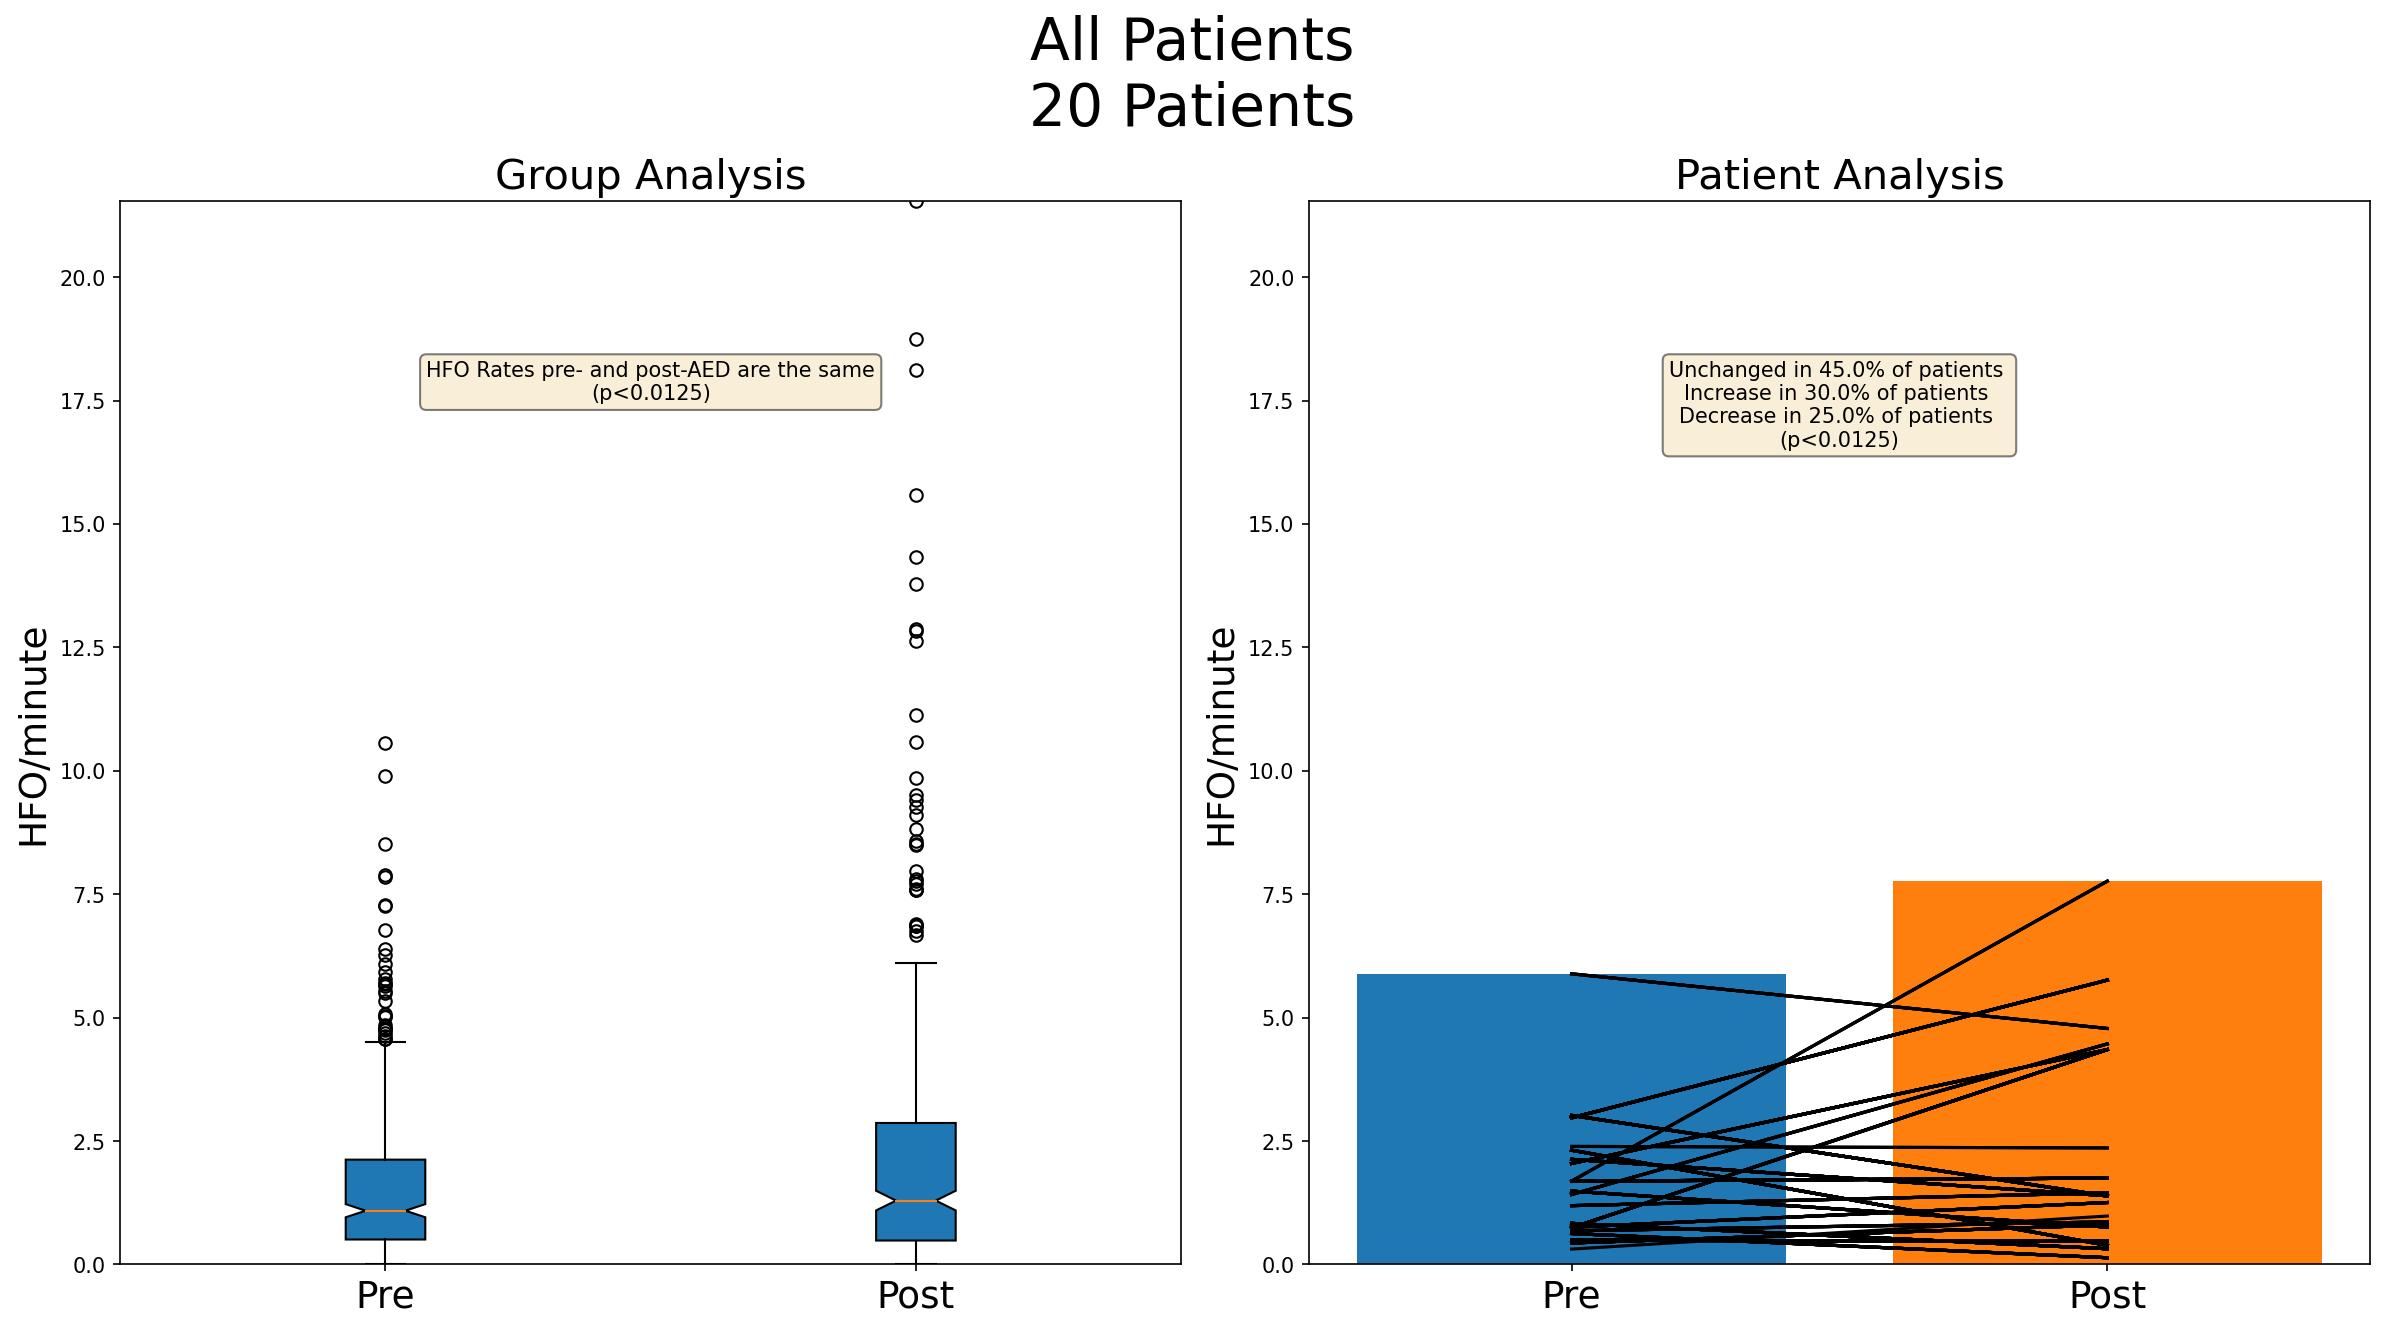
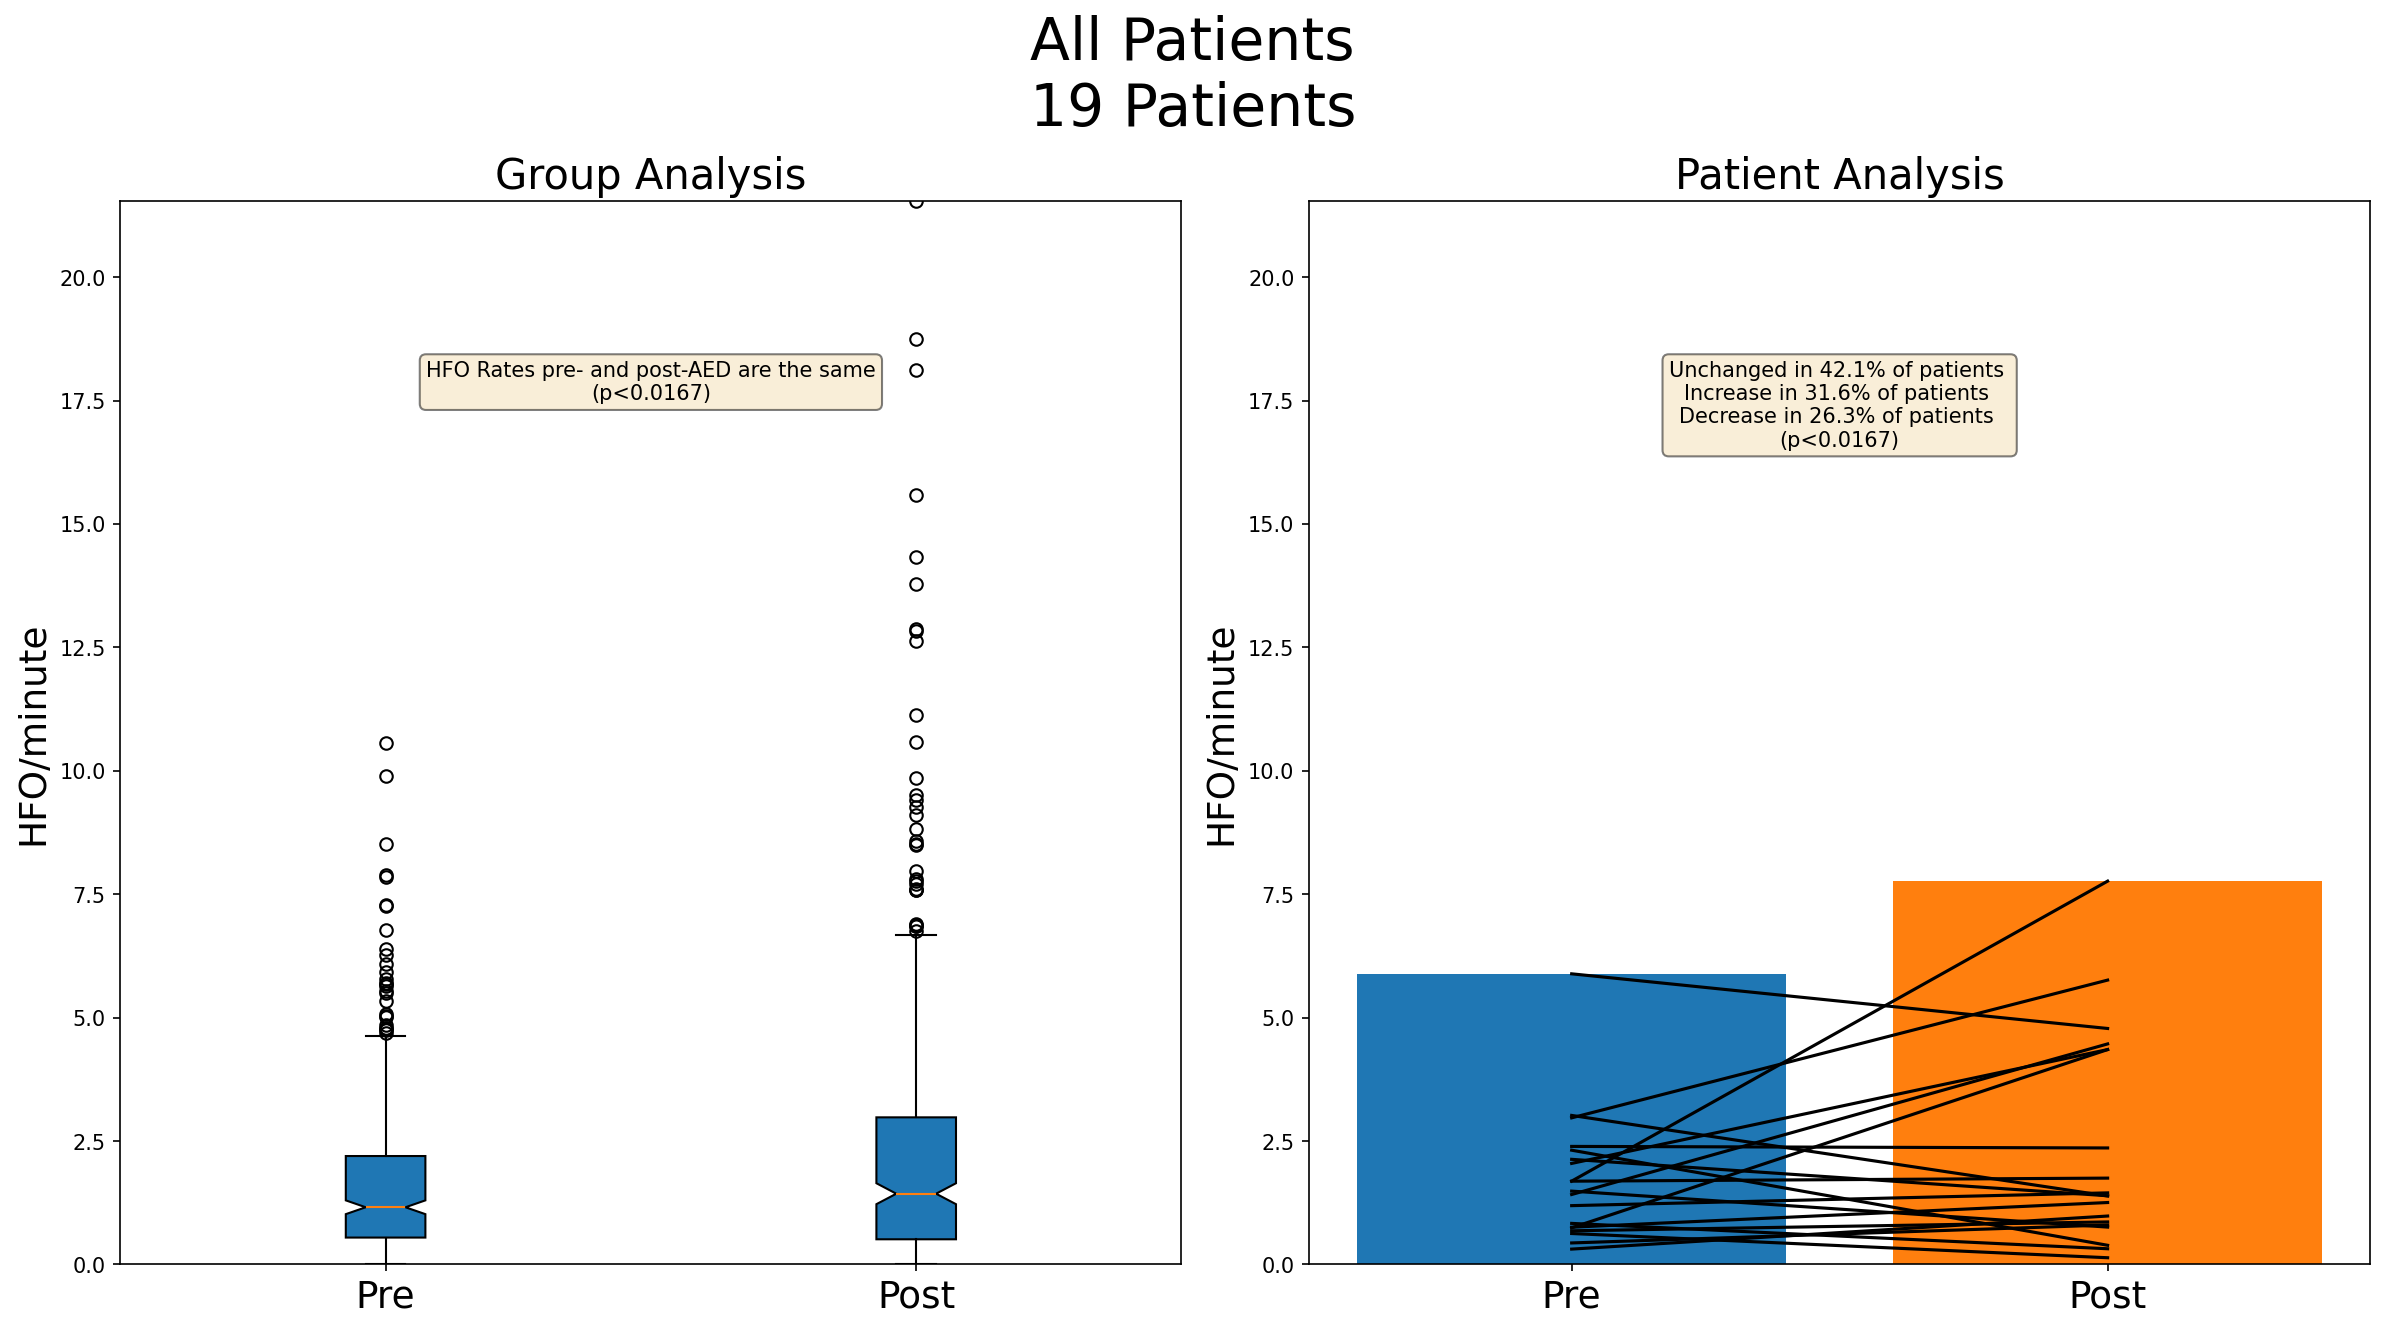
commit before changing the file read procedure to be based on a lookup table

diff --git a/src/plotters.py b/src/plotters.py
@@ -5,6 +5,7 @@ import matplotlib.pyplot as plt
 
 from get_paths import *
 from data_extraction import *
+from file_groups import *
 
 
 def plot_analysis_results(group_label, all_rates_pre, all_rates_post, trim_ok):
@@ -63,23 +64,40 @@ def plot_analysis_barchart(ax, all_rates_pre, all_rates_post, trim_ok):
         pats_avg_pre.append(np.mean(pre_data))
         pats_avg_post.append(np.mean(post_data))
 
-        stats, p_same = scipy.stats.ranksums(
-            pre_data, post_data, alternative='two-sided')
-        stats, p_decrease = scipy.stats.ranksums(
-            pre_data, post_data, alternative='greater')
-        stats, p_increase = scipy.stats.ranksums(
-            pre_data, post_data, alternative='less')
-
-        if p_same >= 0.0125:
-            nr_pats_same += 1
+        use_paired_test = False
+        if use_paired_test:
+            # zero_method{“wilcox”, “pratt”, “zsplit”
+            zero_method_str = 'wilcox'
+            stats, p_same = scipy.stats.wilcoxon(
+                pre_data, post_data, zero_method=zero_method_str, alternative='two-sided')
+            stats, p_decrease = scipy.stats.wilcoxon(
+                pre_data, post_data, zero_method=zero_method_str, alternative='greater')
+            stats, p_increase = scipy.stats.wilcoxon(
+                pre_data, post_data, zero_method=zero_method_str, alternative='less')
         else:
-            if p_decrease < 0.0125:
-                nr_pats_decreased += 1
-            elif p_increase < 0.0125:
-                nr_pats_increased += 1
+            stats, p_same = scipy.stats.mannwhitneyu(
+                pre_data, post_data, alternative='two-sided')
+            stats, p_decrease = scipy.stats.mannwhitneyu(
+                pre_data, post_data, alternative='greater')
+            stats, p_increase = scipy.stats.mannwhitneyu(
+                pre_data, post_data, alternative='less')
 
-        for idx in range(len(pats_avg_pre)):
-            ax.plot([1, 2], [pats_avg_pre[idx], pats_avg_post[idx]], '-k')
+        alpha_val = 0.0167  # 0.0125
+        no_change_s = p_same > alpha_val
+        decrease_s = not (
+            no_change_s) and p_decrease <= alpha_val and p_decrease < p_same and p_decrease < p_increase
+        increase_s = not (
+            no_change_s) and p_increase <= alpha_val and p_increase < p_same and p_increase < p_decrease
+
+        if no_change_s+decrease_s+increase_s > 1:
+            stop = 1
+
+        nr_pats_same += no_change_s
+        nr_pats_decreased += decrease_s
+        nr_pats_increased += increase_s
+
+    for idx in range(len(pats_avg_pre)):
+        ax.plot([1, 2], [pats_avg_pre[idx], pats_avg_post[idx]], '-k')
 
     ax.bar(np.zeros(len(pats_avg_pre))+1, pats_avg_pre)
     ax.bar(np.zeros(len(pats_avg_post))+2, pats_avg_post)
@@ -95,13 +113,11 @@ def plot_analysis_barchart(ax, all_rates_pre, all_rates_post, trim_ok):
     textstr = f"Unchanged in {nr_pats_same:.1f}% of patients \n"
     textstr += f"Increase in {nr_pats_increased:.1f}% of patients \n"
     textstr += f"Decrease in {nr_pats_decreased:.1f}% of patients \n"
-    textstr += "(p<0.0125)"
+    textstr += f"(p<{alpha_val})"
 
     props = dict(boxstyle='round', facecolor='wheat', alpha=0.5)
     ax.text(0.50, 0.85, textstr, transform=ax.transAxes, fontsize=10,
             horizontalalignment='center', verticalalignment='top', multialignment='center',  bbox=props)
-
-    stop = 1
 
 
 def plot_analysis_boxplot(ax, all_rates_pre, all_rates_post, trim_ok):
@@ -131,7 +147,7 @@ def plot_analysis_boxplot(ax, all_rates_pre, all_rates_post, trim_ok):
     ax.set_ylabel("HFO/minute", fontsize=18)
     ax.set_ylim(np.min(all_rates), np.max(all_rates))
 
-    # Perform statisitical tests
+    # Perform statisitical tests, ranksums, mannwhitneyu
     stats, p_same = scipy.stats.ranksums(
         all_rates_pre[1, :], all_rates_post[1, :], alternative='two-sided')  # 'two-sided', 'less', 'greater'
 
@@ -141,16 +157,26 @@ def plot_analysis_boxplot(ax, all_rates_pre, all_rates_post, trim_ok):
     stats, p_increase = scipy.stats.ranksums(
         all_rates_pre[1, :], all_rates_post[1, :], alternative='less')  # 'two-sided', 'less', 'greater'
 
+    alpha_val = 0.0167  # 0.0125
+    no_change_s = p_same > alpha_val
+    decrease_s = not (
+        no_change_s) and p_decrease <= alpha_val and p_decrease < p_same and p_decrease < p_increase
+    increase_s = not (
+        no_change_s) and p_increase <= alpha_val and p_increase < p_same and p_increase < p_decrease
+
     textstr = "HFO Rates pre- and post-AED are the same\n"
-    if p_same >= 0.0125:
+    if no_change_s:
         textstr = "HFO Rates pre- and post-AED are the same\n"
-    else:
+    elif decrease_s:
         textstr = "HFO Rates pre- and post-AED are different\n"
-        if p_decrease < 0.0125:
-            textstr += "HFO Rates decreased after AED\n"
-        elif p_increase < 0.0125:
-            textstr += "HFO Rates increased after AED\n"
-    textstr += "(p<0.0125)"
+        textstr += "HFO Rates decreased after AED\n"
+    elif increase_s:
+        textstr = "HFO Rates pre- and post-AED are different\n"
+        textstr += "HFO Rates increased after AED\n"
+    else:
+        textstr = "Undetermined behaviour!"
+
+    textstr += f"(p<{alpha_val})"
 
     # place a text box in upper left in axes coords
     # these are matplotlib.patch.Patch properties

diff --git a/src/aed_hfo_main.py b/src/aed_hfo_main.py
@@ -1,21 +1,30 @@
 import numpy as np
+import pandas as pd
+
 import mne as mne
 import matplotlib.pyplot as plt
 import scipy
 from get_paths import *
 from data_extraction import *
-from file_groups import *
 from plotters import *
+from montage_conversion import *
 
 
 groups = ["All_Patients", "EEG_Improvement",
           "Clinical_Improvement", "Seizure_Free"]
 
+files_map_fn = "F:/Postdoc_Calgary/Research/AED_and_Scalp_HFO/HFO_AED_Analysis/Data/AED_Patient_Files_Map.xlsx"
+files_map = pd.read_excel(files_map_fn)
+# pat_info_table_fn = "F:/Postdoc_Calgary/Research/AED_and_Scalp_HFO/HFO_AED_Analysis/Data/AED_Outcome_Table.xlsx"
+# pat_info_table = pd.read_csv(pat_info_table_fn)
+
+# groups = ["Seizure_Free"]
+
 for group_label in groups:
 
     if group_label == "All_Patients":
-        pre_files_list = PRE_FILES
-        post_files_list = POST_FILES
+        pre_files_list = files_map['EDF_Filename'][files_map['Pre'] > 0]
+        post_files_list = files_map['EDF_Filename'][files_map['Pre'] <= 0]
     elif group_label == "EEG_Improvement":
         pre_files_list = PRE_FILES_EEG_IMPROVED
         post_files_list = POST_FILES_EEG_IMPROVED
@@ -66,15 +75,55 @@ for group_label in groups:
 
         annots_pre = load_gs_file(pre_fn)
         pre_edf_fn = edfs_path + pre_edf_fn[0]
+
         eeg_data_pre = mne.io.read_raw_edf(pre_edf_fn)
+        # scalp_bp_eeg_pre = convert_to_long_bipolar(eeg_data_pre)
         eeg_duration_s = eeg_data_pre.times[-1]/60
-        hfo_rates_pre = get_hfo_rates(annots_pre, eeg_duration_s)
+        pre_channels, hfo_rates_pre = get_hfo_rates(annots_pre, eeg_duration_s)
 
         annots_post = load_gs_file(post_fn)
         post_edf_fn = edfs_path + post_edf_fn[0]
         eeg_data_post = mne.io.read_raw_edf(post_edf_fn)
+        # scalp_bp_eeg_post = convert_to_long_bipolar(eeg_data_pre)
         eeg_duration_s = eeg_data_post.times[-1]/60
-        hfo_rates_post = get_hfo_rates(annots_post, eeg_duration_s)
+        post_channels, hfo_rates_post = get_hfo_rates(
+            annots_post, eeg_duration_s)
+
+        date_diff = eeg_data_post.info['meas_date'] - \
+            eeg_data_pre.info['meas_date']
+
+        assert (date_diff.total_seconds() > 0,
+                "Pre and Post Files are mixed up")
+
+        consider_only_shared_channels = False
+        if consider_only_shared_channels:
+            # keep only channels present in both pre and post
+            keep_pre = np.full(len(pre_channels), False)
+            for chfi in range(len(pre_channels)):
+                keep_pre[chfi] = pre_channels[chfi] in post_channels
+            hfo_rates_pre = hfo_rates_pre[keep_pre]
+            pre_channels = pre_channels[keep_pre]
+            # sort channels alphabetically
+            hfo_rates_pre = hfo_rates_pre[np.argsort(pre_channels)]
+            pre_channels = pre_channels[np.argsort(pre_channels)]
+
+            keep_post = np.full(len(post_channels), False)
+            for chfi in range(len(post_channels)):
+                keep_post[chfi] = post_channels[chfi] in pre_channels
+            hfo_rates_post = hfo_rates_post[keep_post]
+            post_channels = post_channels[keep_post]
+            # sort channels alphabetically
+            hfo_rates_post = hfo_rates_post[np.argsort(post_channels)]
+            post_channels = post_channels[np.argsort(post_channels)]
+
+            for chfi in range(len(pre_channels)):
+                if pre_channels[chfi] != post_channels[chfi]:
+                    raise Exception("Pre and Post Channels not matching!")
+
+            if len(keep_pre) != sum(keep_pre):
+                stop = 1
+            if len(keep_post) != sum(keep_post):
+                stop = 1
 
         # Trim outlier channels
         trim_ok = False
@@ -110,3 +159,6 @@ for group_label in groups:
     # Plot Results
     plot_analysis_results(group_label, all_rates_pre,
                           all_rates_post, trim_ok=False)
+
+
+stop = 1

diff --git a/src/data_extraction.py b/src/data_extraction.py
@@ -20,7 +20,7 @@ def get_hfo_rates(annots, duration_s):
         hfo_rate = sum(np.logical_and(sel_ch, sel_hfo))/duration_s
         hfo_rates.append(hfo_rate)
 
-    return hfo_rates
+    return np.array(channels), np.array(hfo_rates)
 
 
 def load_gs_file(mat_fname):
